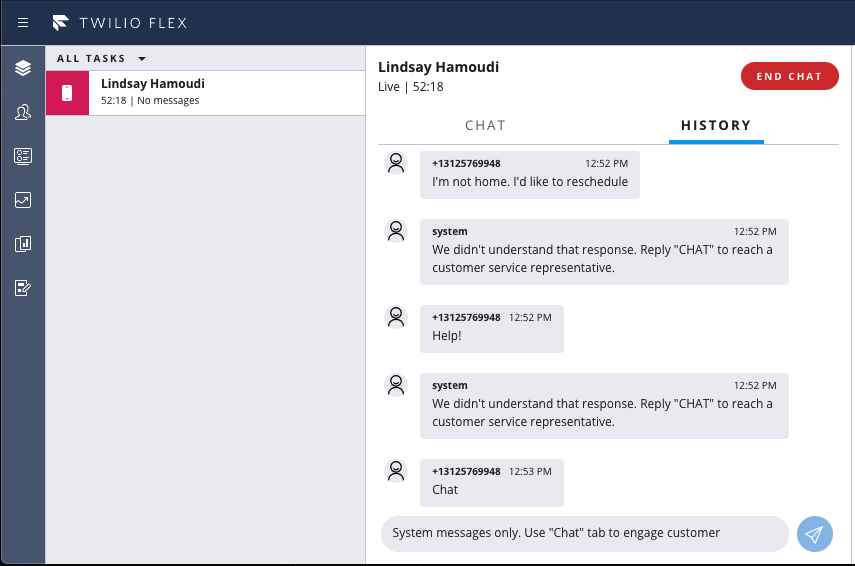
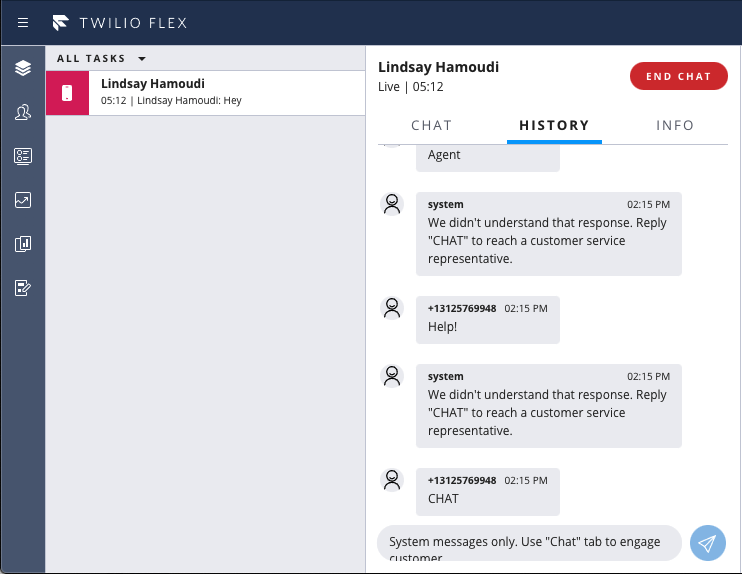
new screenshots, new notification, new logic to only show new additions when sourceChatChannelSid is present

diff --git a/src/FlexChatIncludeSourceChannelPlugin.js b/src/FlexChatIncludeSourceChannelPlugin.js
@@ -4,6 +4,8 @@ import { FlexPlugin } from "flex-plugin";
 import { Tab, TaskHelper } from "@twilio/flex-ui";
 import SourceChatChannelCanvas from "./components/SourceChatChannelCanvas";
 
+import SourceChatChannelNotification from "./components/SourceChatChannelNotification";
+
 const PLUGIN_NAME = "FlexChatIncludeSourceChannelPlugin";
 
 export default class FlexChatIncludeSourceChannelPlugin extends FlexPlugin {
@@ -20,6 +22,15 @@ export default class FlexChatIncludeSourceChannelPlugin extends FlexPlugin {
    */
   init(flex, manager) {
 
+
+    flex.TaskCanvas.Content.add(
+      <SourceChatChannelNotification 
+        key="sourceChatChannelNotification" />, 
+        { 
+          sortOrder: -1,
+          if: (props) => TaskHelper.isChatBasedTask(props.task) && props.task.attributes.sourceChatChannelSid
+        });
+ 
     // Add the History tab
     flex.TaskCanvasTabs.Content.add(
       <Tab  
@@ -28,8 +39,10 @@ export default class FlexChatIncludeSourceChannelPlugin extends FlexPlugin {
         label="History" 
         hidden={false}> 
           <SourceChatChannelCanvas />
-      </Tab>, {
-        sortOrder: 3
+      </Tab>, 
+      {
+        sortOrder: 3,
+        if: (props) => TaskHelper.isChatBasedTask(props.task) && props.task.attributes.sourceChatChannelSid
       }
     );
 

diff --git a/src/components/SourceChatChannelNotification.jsx b/src/components/SourceChatChannelNotification.jsx
@@ -1,0 +1,42 @@
+import React from 'react';
+
+import { Actions } from '@twilio/flex-ui';
+import { SourceChatChannelNotificationStyles } from './SourceChatChannelNotification.Styles';
+
+class SourceChatChannelNotification extends React.Component {
+
+  constructor(props) {
+    super(props);
+    this.state = { isOpen: true }
+  }
+
+  render() {  
+    if (this.state.isOpen) {
+      return (
+        <SourceChatChannelNotificationStyles>
+          Automated system history exists.&nbsp;
+          <i className="accented" onClick={() => this.openHistoryTab()}>Click here</i> to view.
+          <i className="accented right" onClick={() => this.closeNotification()}>
+            close
+          </i>
+        </SourceChatChannelNotificationStyles>
+      );
+    }
+    return null;
+  }
+
+  openHistoryTab() {
+    Actions.invokeAction("SetComponentState", { 
+      name: "AgentTaskCanvasTabs", 
+      state: { selectedTabName: "source-chat" } 
+    });
+    this.closeNotification();  
+  }
+
+  closeNotification() {
+    this.setState({ isOpen: false });        
+  }
+}
+
+
+export default SourceChatChannelNotification;

diff --git a/src/components/SourceChatChannelNotification.Styles.js b/src/components/SourceChatChannelNotification.Styles.js
@@ -1,0 +1,17 @@
+import { default as styled } from 'react-emotion';
+
+export const SourceChatChannelNotificationStyles = styled('div')`
+  padding: 10px;
+  margin: 0px;
+  color: #fff;
+  background: #000;
+
+  .accented {
+    color: red;
+    cursor: pointer;
+  }
+
+  .right {
+    float: right;
+  }
+`;
